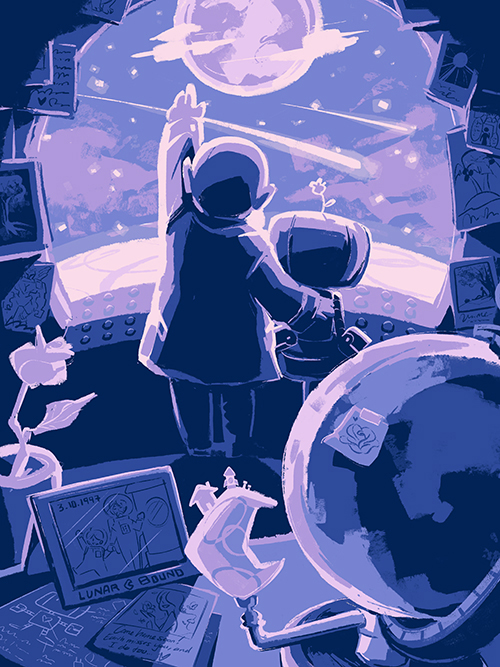
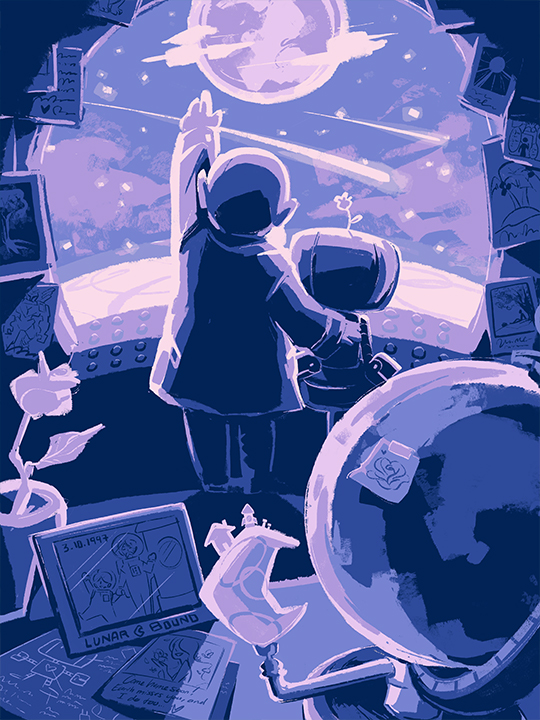
made all images smaller
made all images 540px wide (some 640)

diff --git a/index.html b/index.html
@@ -67,37 +67,37 @@
 			<div class="column">
 				<div class="image">
 					<a href="art_unmei arcade.html">
-					<img src="images/index/a_1.jpg" alt="Unmei Arcade"/>
+					<img src="images/index/a_1.jpg" alt="Unmei Arcade" loading="lazy"> 
 					</a>
 					<div class="image-text">Unmei Arcade</div>
 				</div>
 				<div class="image">
 					<a href="art_masterpiece project.html">
-					<img src="images/index/a_2.gif" alt=""/>
+					<img src="images/index/a_2.gif" alt="" loading="lazy">
 					</a>
 					<div class="image-text">Masterpiece Project</div>
 				</div>
 				<div class="image">
 					<a href="art_yobby the betta fish.html">
-					<img src="images/index/a_3.jpg" alt=""/>
+					<img src="images/index/a_3.jpg" alt="" loading="lazy">
 					</a>
 					<div class="image-text">Yobby the Betta Fish</div>
 				</div>
 				<div class="image">
 					<a href="art_robocook.html">
-					<img src="images/index/a_4.gif" alt=""/>
+					<img src="images/index/a_4.gif" alt="" loading="lazy">
 					</a>
 					<div class="image-text">Robocook</div>
 				</div>
 				<div class="image">
 					<a href="art_plug n play.html">
-					<img src="images/index/a_5.jpg" alt=""/>
+					<img src="images/index/a_5.jpg" alt="" loading="lazy">
 					</a>
 					<div class="image-text">Plug n' Play</div>
 				</div>
 				<div class="image">
 					<a href="art_tip of the iceberg.html">
-					<img src="images/index/a_6.jpg" alt=""/>
+					<img src="images/index/a_6.jpg" alt="" loading="lazy">
 					</a>
 					<div class="image-text">Tip of the Iceberg</div>
 				</div>
@@ -107,37 +107,37 @@
 			<div class="column">
 				<div class="image">
 					<a href="art_soup.html">
-					<img src="images/index/b_1.gif" alt=""/>
+					<img src="images/index/b_1.gif" alt="" loading="lazy">
 					</a>
 					<div class="image-text">Soup</div>
 				</div>
 				<div class="image">
 					<a href="art_with love robots.html">
-					<img src="images/index/b_2.jpg" alt=""/>
+					<img src="images/index/b_2.jpg" alt="" loading="lazy">
 					</a>
 					<div class="image-text">With Love, Robots <br> (Welcome to the World)</div>
 				</div>
 				<div class="image">
 					<a href="art_with love robots.html">
-					<img src="images/index/b_3.jpg" alt=""/>
+					<img src="images/index/b_3.jpg" alt="" loading="lazy">
 					</a>
 					<div class="image-text">With Love, Robots <br> (Storytime)</div>
 				</div>
 				<div class="image">
 					<a href="art_survive in 5.html">
-					<img src="images/index/b_4.gif" alt=""/>
+					<img src="images/index/b_4.gif" alt="" loading="lazy">
 					</a>
 					<div class="image-text">Survive in 5</div>
 				</div>
 				<div class="image">
 					<a href="art_pdawg and friends.html">
-					<img src="images/index/b_5.jpg" alt=""/>
+					<img src="images/index/b_5.jpg" alt="" loading="lazy">
 					</a>
 					<div class="image-text">P-Dawg and Friends</div>
 				</div>
 				<div class="image">
 					<a href="art_ramen.html">
-					<img src="images/index/b_6.gif" alt=""/>
+					<img src="images/index/b_6.gif" alt="" loading="lazy">
 					</a>
 					<div class="image-text">Ramen</div>
 				</div>
@@ -147,37 +147,37 @@
 			<div class="column">
 				<div class="image">
 					<a href="art_for josh.html">
-					<img src="images/index/c_1.jpg" alt=""/>
+					<img src="images/index/c_1.jpg" alt="" loading="lazy">
 					</a>
 					<div class="image-text">For Josh</div>
 				</div>
 				<div class="image">
 					<a href="art_with love robots.html">
-					<img src="images/index/c_2.jpg" alt=""/>
+					<img src="images/index/c_2.jpg" alt="" loading="lazy">
 					</a>
 					<div class="image-text">With Love, Robots <br> (Earth Misses You)</div>
 				</div>
 				<div class="image">
 					<a href="art_matsuri statue.html">
-					<img src="images/index/c_3.jpg" alt=""/>
+					<img src="images/index/c_3.jpg" alt="" loading="lazy">
 					</a>
 					<div class="image-text">Matsuri Statue</div>
 				</div>
 				<div class="image">
 					<a href="art_charons isle.html">
-					<img src="images/index/c_4.jpg" alt=""/>
+					<img src="images/index/c_4.jpg" alt="" loading="lazy">
 					</a>
 					<div class="image-text">Charon's Isle</div>
 				</div>
 				<div class="image">
 					<a href="art_when bella lost her buzz.html">
-					<img src="images/index/c_5.jpg" alt=""/>
+					<img src="images/index/c_5.jpg" alt="" loading="lazy">
 					</a>
 					<div class="image-text">When Bella <br> Lost Her Buzz</div>
 				</div>
 				<div class="image">
 					<a href="art_when bella lost her buzz.html">
-					<img src="images/index/c_6.jpg" alt=""/>
+					<img src="images/index/c_6.jpg" alt="" loading="lazy">
 					</a>
 					<div class="image-text">When Bella <br> Lost Her Buzz</div>
 				</div>
@@ -187,45 +187,39 @@
 			<div class="column">
 				<div class="image">
 					<a href="art_like me.html">
-					<img src="images/index/d_1.gif" alt=""/>
+					<img src="images/index/d_1.gif" alt="" loading="lazy">
 					</a>
 					<div class="image-text">Like Me</div>
 				</div>
 				<div class="image">
 					<a href="art_cakeday.html">
-					<img src="images/index/d_2.gif" alt=""/>
+					<img src="images/index/d_2.gif" alt="" loading="lazy">
 					</a>
 					<div class="image-text">#cakeday</div>
 				</div>
 				<div class="image">
 					<a href="art_with love robots.html">
-					<img src="images/index/d_3.jpg" alt=""/>
+					<img src="images/index/d_3.jpg" alt="" loading="lazy">
 					</a>
 					<div class="image-text">With Love, Robots <br> (Homebound)</div>
 				</div>
 				<div class="image">
 					<a href="art_little shrimp.html">
-					<img src="images/index/d_4.gif" alt=""/>
+					<img src="images/index/d_4.gif" alt="" loading="lazy">
 					</a>
 					<div class="image-text">Little Shrimp <br> and the Sea Dragon</div>
 				</div>
 				<div class="image">
 					<a href="art_abstractifier.html">
-					<img src="images/index/d_5.jpg" alt=""/>
+					<img src="images/index/d_5.jpg" alt="" loading="lazy">
 					</a>
 					<div class="image-text">The Abstractifier</div>
 				</div>
 				<div class="image">
 					<a href="art_ti reds day off.html">
-					<img src="images/index/d_6.gif" alt=""/>
+					<img src="images/index/d_6.gif" alt="" loading="lazy">
 					</a>
 					<div class="image-text">Ti Red's Day Off</div>
-				</div>
-				<div class="image">
-					<a href="art_805 rhythm gaming.html">
-					<img src="images/index/d_7.jpg" alt=""/>
-					</a>
-					<div class="image-text">805 Rhythm Gaming</div>
 				</div>
 			</div>
 
